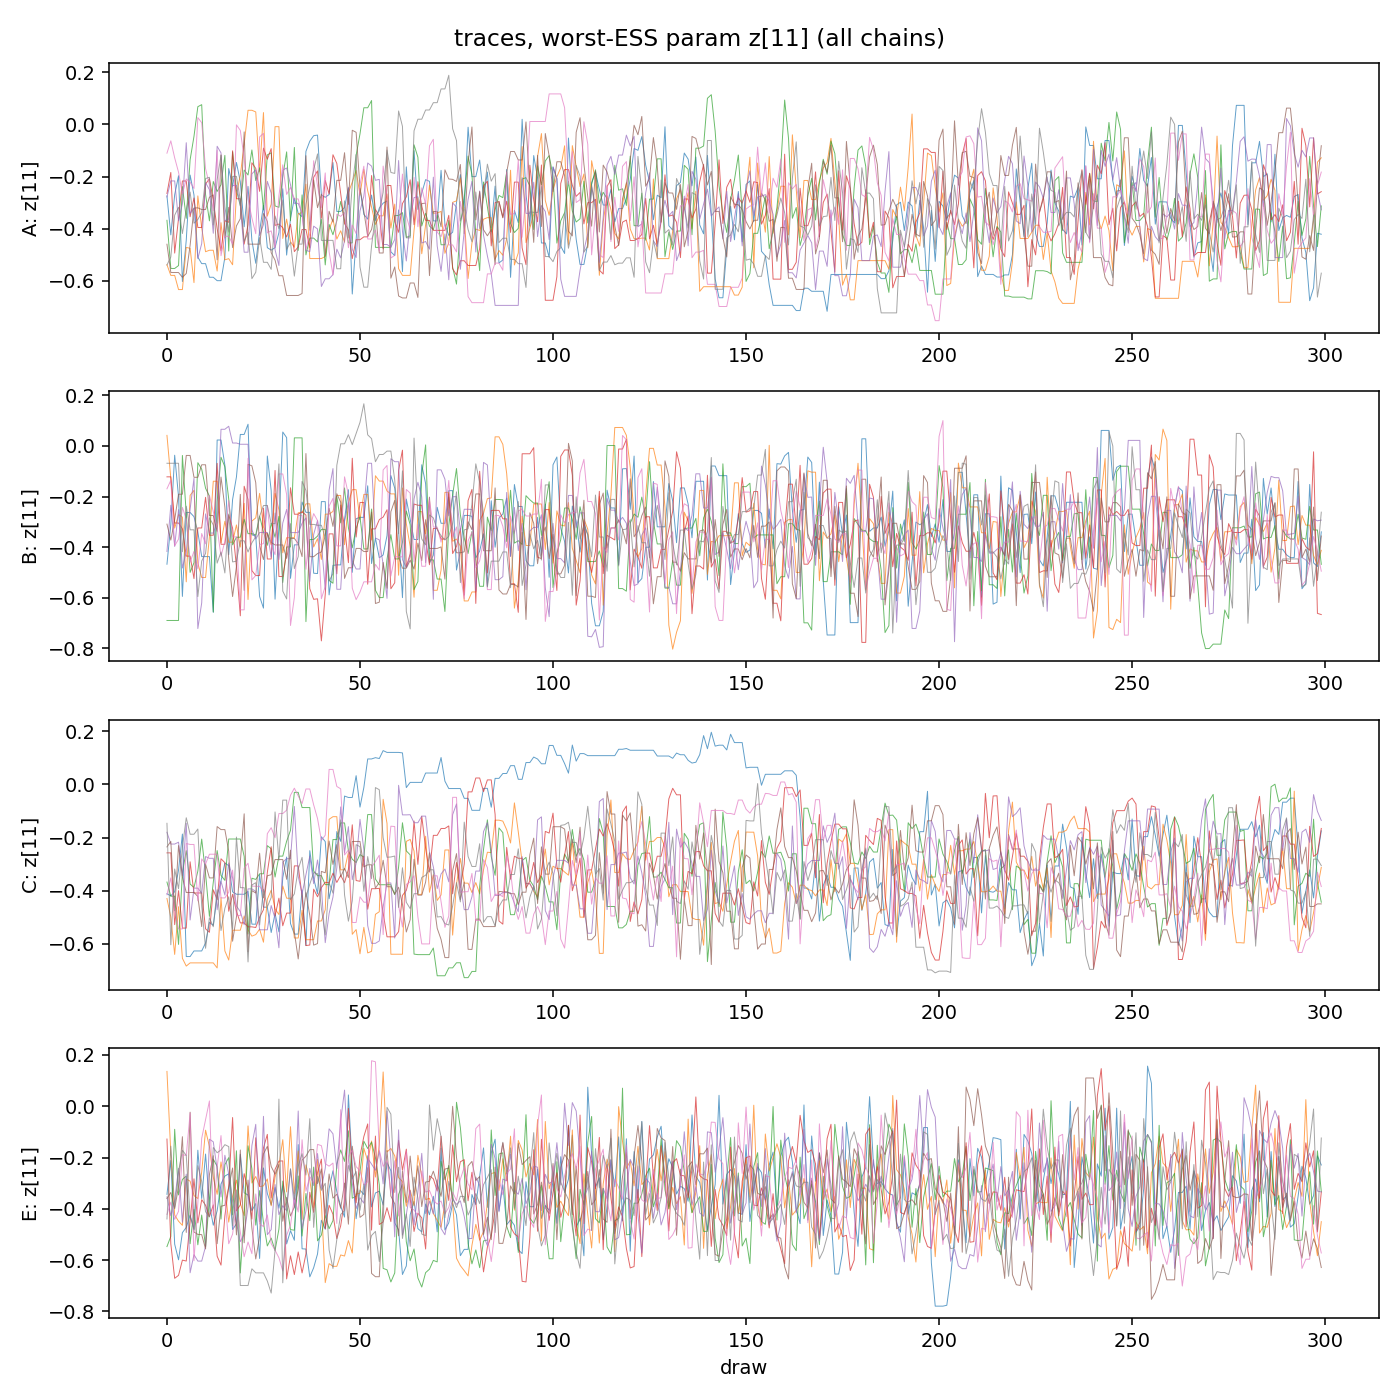
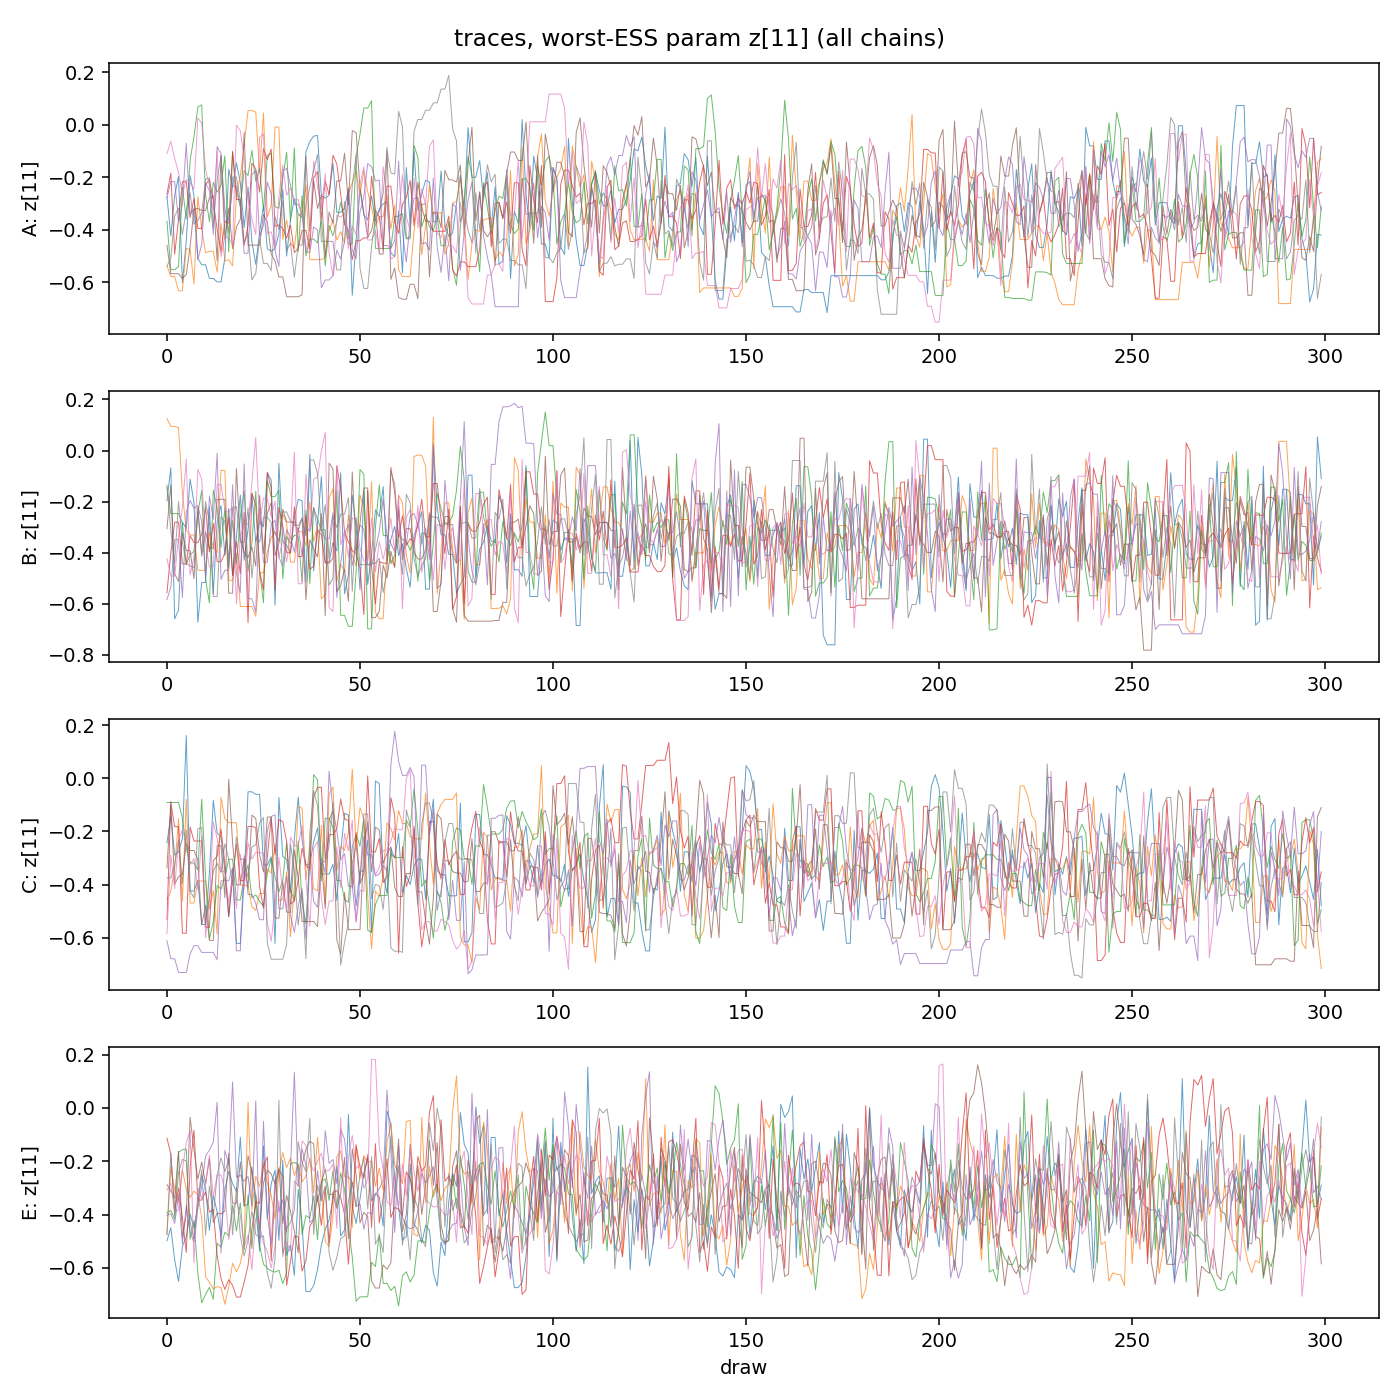
v4 results (clean sweep) + carousel GATE F: script, checkpoint, MAMS64 Phase-B deviation

diff --git a/experiments/flow_precond/carousel_gate_f.py b/experiments/flow_precond/carousel_gate_f.py
@@ -1,0 +1,207 @@
+#!/usr/bin/env python
+"""Carousel GATE F (plan §5.2): train one-shot flows on carousel-dPIE, gate them.
+
+Trains Phase-A-only and Phase-A+B one-shot flows (fixed range 6 + trainable
+DiagScale — the demo-validated v4 architecture, nothing data-derived) on the
+33-param carousel posterior, then evaluates the pre-registered gates:
+
+  GATE F(a)  ELBO: neg-ELBO tail (mean last 100) <= SVI final loss 291453.1
+             (family nesting; same sign convention as SVIStage, verified).
+  GATE F(b)  pocket coverage: log q_flow(zP) - log q_flow(zM) >= -8 nats
+             (zP/zM = basin medians from basin_slice.npz; true lp ratio ~ -3).
+             Pre-registered: A-only FAILS (mode-seeking drops the ~5% pocket
+             14 sigma from the SVI solution), A+B PASSES.
+  GATE F(c)  pullback-scale on MAIN-BASIN MAMS64 draws (pocket excluded via
+             z[:,6] > -22.35): per-dim sd in [0.5, 2], |mean| <= 1, for A+B
+             (gate) and A-only (recorded). Pocket-draw pullback stats reported
+             separately as a diagnostic (an A-only flow that drops the pocket
+             SHOULD place those draws far out -- that is F(b) seen from the
+             sample side, not a scale failure).
+  Diagnostics: max|T^-1(z)| over all draws (box check), per-phase loss
+             histories, learned exp(s) range.
+
+Phase-B data: the fresh 64-chain MAMS run (messy_tests/dpie/mams/arrays.npz,
+(64,1000,33)) -- DEVIATION from the plan's named mclmc file (8x10k), rationale:
+MAMS is MH-exact (pocket occupancy ~4.6% = true) while MCLMC over-weights the
+pocket ~3x (14.6%), which would distort forward-KL training toward the pocket.
+
+GPU only. Outputs to carousel_gate_f_out/ (flows cached with config keys).
+"""
+import os
+import json
+import sys
+import time
+
+sys.stdout.reconfigure(line_buffering=True)
+
+HERE = os.path.dirname(os.path.abspath(__file__))
+OUT_DIR = os.path.join(HERE, "carousel_gate_f_out")
+os.makedirs(OUT_DIR, exist_ok=True)
+
+import matplotlib
+matplotlib.use("Agg")
+from matplotlib import pyplot as plt
+
+import numpy as np
+import jax
+jax.config.update("jax_enable_x64", True)
+from jax import numpy as jnp
+
+sys.path.insert(0, HERE)
+import carousel_model
+from gigalens_research.inference import flows
+import demo_validation as dv  # reuse the demo-validated train_flow loop
+dv.OUT_DIR = OUT_DIR          # redirect its flow caches here
+
+SEED = 0
+SPLINE_CFG = dict(num_layers=6, num_bins=8, spline_range=6.0, hidden_dims=(64, 64),
+                  trainable_scale=True)
+PHASE_A_STEPS = 3000
+PHASE_A_DRAWS = 128
+PHASE_A_LR = 3e-3
+PHASE_B_STEPS = 1000
+PHASE_B_LR = 1e-4
+
+DPIE = os.path.join(HERE, "..", "sim_carousel", "messy_tests", "dpie")
+BASIN = "/pscratch/sd/l/linusu/carousel_diag/basin_slice/basin_slice.npz"
+SVI_FINAL_LOSS = 291453.1085118712  # svi manifest final_loss (verified 2026-07-08)
+POCKET_COL, POCKET_THR = 6, -22.35  # z[:,6] > -22.35 => pocket (verified col map)
+
+
+def main():
+    model_seq, prob_model = carousel_model.build()
+    dim = 33
+    names = prob_model.z_param_names
+    assert names[POCKET_COL] == "planes/0/mass/1/center_x", names[POCKET_COL]
+    lp_fn = lambda z: prob_model.log_prob(z)[0]
+
+    svi = np.load(os.path.join(DPIE, "svi", "arrays.npz"))
+    qz_loc, qz_scale_tril = svi["qz_loc"], svi["qz_scale_tril"]
+
+    mams = np.load(os.path.join(DPIE, "mams", "arrays.npz"))
+    z_mams = mams["samples_z"].reshape(-1, dim)
+    pocket_mask = z_mams[:, POCKET_COL] > POCKET_THR
+    print(f"MAMS64 draws: {z_mams.shape[0]}, pocket occupancy "
+          f"{pocket_mask.mean():.3%}")
+
+    basin = np.load(BASIN)
+    zP, zM = jnp.asarray(basin["zP"]), jnp.asarray(basin["zM"])
+
+    model_card = {
+        "script": os.path.abspath(__file__),
+        "jax": jax.__version__, "devices": [str(d) for d in jax.devices()],
+        "x64": bool(jax.config.jax_enable_x64), "dim": dim,
+        "spline": {**SPLINE_CFG, "phase_a": [PHASE_A_STEPS, PHASE_A_DRAWS, PHASE_A_LR],
+                   "phase_b": [PHASE_B_STEPS, PHASE_B_LR, "mams64"]},
+        "phase_b_data": dict(source="messy_tests/dpie/mams/arrays.npz",
+                             n=int(z_mams.shape[0]),
+                             pocket_occupancy=float(pocket_mask.mean())),
+        "seed": SEED,
+    }
+    print("MODEL CARD:", json.dumps(model_card, indent=2))
+
+    key = jax.random.key(SEED + 10)
+    sp_init, sp_make = flows.make_whitened_spline_flow(
+        key, dim, jnp.asarray(qz_loc), jnp.asarray(qz_scale_tril), **SPLINE_CFG)
+    sp_key = (f"car_r{int(SPLINE_CFG['spline_range'])}b{SPLINE_CFG['num_bins']}"
+              f"ts1lr{PHASE_A_LR:g}")
+
+    t0 = time.perf_counter()
+    params_a, hist_a = dv.train_flow(
+        f"A_{sp_key}", sp_init, sp_make, lp_fn, dim, n_draws=PHASE_A_DRAWS,
+        num_steps=PHASE_A_STEPS, lr=PHASE_A_LR, seed=SEED + 11)
+    t_a = time.perf_counter() - t0
+
+    t0 = time.perf_counter()
+    params_ab, hist_ab = dv.train_flow(
+        f"AB_{sp_key}", params_a, sp_make, lp_fn, dim, n_draws=PHASE_A_DRAWS,
+        num_steps=0, lr=PHASE_A_LR, seed=SEED + 12,
+        phase_b_samples=z_mams, phase_b_steps=PHASE_B_STEPS, phase_b_lr=PHASE_B_LR)
+    t_b = time.perf_counter() - t0
+
+    summary = {"model_card": model_card, "timings_s": dict(phase_a=t_a, phase_b=t_b),
+               "training": {
+                   "A": dict(steps=int(hist_a["a"].size),
+                             diverged=bool(hist_a.get("diverged"))),
+                   "B": dict(steps=int(hist_ab["b"].size)
+                             if hist_ab["b"] is not None else 0,
+                             diverged=bool(hist_ab.get("diverged"))),
+               }}
+
+    def log_q(make, params, z):
+        bij = make(params)
+        u = bij.inverse(z)
+        ildj = bij.inverse_log_det_jacobian(z, event_ndims=1)
+        return np.asarray(flows._std_normal_logprob(u) + ildj), np.asarray(u)
+
+    batched_lp = jax.vmap(lp_fn)
+
+    def direct_neg_elbo(params, n_batches=5):
+        """Fresh Monte-Carlo neg-ELBO of the FINAL flow (Phase B shifts it off the
+        Phase-A history, so each flow gets its own estimate; 5x128 draws)."""
+        vals = [float(flows.neg_elbo_loss(
+            params, sp_make, batched_lp, jax.random.key(1000 + i),
+            PHASE_A_DRAWS, dim)) for i in range(n_batches)]
+        return float(np.mean(vals)), float(np.std(vals))
+
+    results = {}
+    for tag, params, hist in (("A_only", params_a, hist_a),
+                              ("A_plus_B", params_ab, hist_ab)):
+        if hist.get("diverged"):
+            results[tag] = dict(status="TRAINING DIVERGED")
+            continue
+        # GATE F(a): direct neg-ELBO of this flow (mean +- sd over 5 batches)
+        tail, tail_sd = direct_neg_elbo(params)
+        # GATE F(b): pocket coverage
+        lq_pm, _ = log_q(sp_make, params, jnp.stack([zP, zM]))
+        pocket_ratio = float(lq_pm[0] - lq_pm[1])
+        # GATE F(c): pullback of main-basin draws (subsample for memory)
+        rng = np.random.default_rng(SEED)
+        main_idx = rng.choice(np.where(~pocket_mask)[0], size=4000, replace=False)
+        pocket_idx = np.where(pocket_mask)[0]
+        pocket_idx = rng.choice(pocket_idx, size=min(2000, pocket_idx.size),
+                                replace=False)
+        _, u_main = log_q(sp_make, params, jnp.asarray(z_mams[main_idx]))
+        _, u_pocket = log_q(sp_make, params, jnp.asarray(z_mams[pocket_idx]))
+        sd, mu = u_main.std(0), np.abs(u_main.mean(0))
+        bij = sp_make(params)
+        results[tag] = dict(
+            status="OK",
+            elbo_direct=tail, elbo_direct_sd=tail_sd,
+            elbo_gate_pass=bool(tail <= SVI_FINAL_LOSS),
+            pocket_log_ratio=pocket_ratio,
+            pocket_gate_pass=bool(pocket_ratio >= -8.0),
+            pullback_main_sd=[float(sd.min()), float(sd.max())],
+            pullback_main_maxabsmean=float(mu.max()),
+            pullback_scale_pass=bool((sd >= 0.5).all() and (sd <= 2.0).all()
+                                     and (mu <= 1.0).all()),
+            pullback_pocket_sd=[float(u_pocket.std(0).min()),
+                                float(u_pocket.std(0).max())],
+            pullback_pocket_maxabs=float(np.abs(u_pocket).max()),
+            max_abs_u_main=float(np.abs(u_main).max()),
+            exp_s_range=[float(np.exp(np.asarray(
+                params["log_scale"]).min())), float(np.exp(np.asarray(
+                    params["log_scale"]).max()))] if "log_scale" in params else None,
+        )
+        print(tag, json.dumps(results[tag], indent=2))
+
+    summary["gates"] = results
+
+    fig, ax = plt.subplots(figsize=(9, 5))
+    ax.plot(hist_a["a"], label="Phase A (neg-ELBO)")
+    if hist_ab["b"] is not None and len(hist_ab["b"]):
+        ax.plot(np.arange(len(hist_ab["b"])) + PHASE_A_STEPS, hist_ab["b"],
+                label="Phase B (fwd-KL)")
+    ax.axhline(SVI_FINAL_LOSS, color="r", ls="--", label="SVI final loss")
+    ax.set_xlabel("step"); ax.set_ylabel("loss"); ax.legend()
+    ax.set_yscale("symlog")
+    fig.tight_layout()
+    fig.savefig(os.path.join(OUT_DIR, "gate_f_losses.png"), dpi=140)
+
+    with open(os.path.join(OUT_DIR, "gate_f_summary.json"), "w") as f:
+        json.dump(summary, f, indent=2)
+    print("SUMMARY:", json.dumps(summary["gates"], indent=2, default=str))
+
+
+if __name__ == "__main__":
+    main()

diff --git a/docs/logs/carousel-mclmc-sampling.md b/docs/logs/carousel-mclmc-sampling.md
@@ -424,6 +424,47 @@ multimodality, conditioning, or the NFW profile.
 
 ## Design checkpoints (criteria awaiting approval)
 
+- **Run: carousel GATE F — one-shot flow training + pocket-coverage A/B** (plan §5.2/§4.4;
+  script `experiments/flow_precond/carousel_gate_f.py`, branch `flow-precond-mams`; model
+  via `carousel_model.py`, identity-verified to 0.01 nats against basin_slice records).
+  Trains Phase-A-only and Phase-A+B one-shot flows (demo-v4-validated architecture: range 6
+  / 8 bins / trainable DiagScale / lr 3e-3, 3000×128-draw reverse-KL; Phase B 1000-step
+  full-batch fkl) on the 33-param carousel-dPIE posterior.
+  **DEVIATION from plan §4.4 (pre-registered):** Phase-B data = the fresh 64-chain MAMS run
+  (`messy_tests/dpie/mams/arrays.npz`, 64×1000, MH-exact, pocket occupancy measured at load
+  time, ≈4.6% = truth) instead of the plan's named MCLMC file (8×10k, pocket over-weighted
+  ~3× at 14.6%) — forward-KL trains toward its data's weights, so MH-correct weights are
+  truer to the plan's intent.
+  **Cause hypothesis:** reverse-KL from the SVI start assigns the separate ~5% pocket mode
+  (14σ from the SVI solution) probability ≈ 0 (mode-dropping — the mechanism the demo could
+  not test, having no second mode); forward-KL on MH-exact samples restores it.
+  **Pre-registered predictions:** (F1) A-only FAILS the pocket gate: log q(zP) − log q(zM)
+  < −8 nats, plausibly ≪ −8 (SVI itself was 14σ ⇒ ratio ~ −100s; the flow starts there and
+  reverse-KL has no gradient signal to build density at an unvisited mode) — its failure is
+  a RESULT confirming §4.4, not a bug; (F2) A+B PASSES: ratio ≥ −8 (true value ≈ −3; Phase-B
+  data contains ~2.9k pocket draws); (F3) both flows pass the ELBO gate: direct 5×128-draw
+  neg-ELBO ≤ SVI final 291453.1 (family nesting; identity-init starts AT the SVI loss);
+  (F4) A+B passes the pullback-scale gate on MAIN-BASIN draws (sd ∈ [0.5,2], |mean| ≤ 1;
+  band derivation as in the demo checkpoint); pocket-draw pullback reported separately as a
+  diagnostic (A-only SHOULD place pocket draws far out — that is F1 seen from the sample
+  side). **Falsifiers + pre-committed responses:** F1 wrong (A-only covers the pocket) ⇒
+  surprising positive about reverse-KL here; investigate how (lp evaluations at 128 draws/
+  step CAN see the pocket if draws land there) before any claim; F2 wrong (A+B fails) ⇒ ONE
+  retry with subsampling/early-stopping (the v4-flagged overfit levers), then if still
+  failing: pre-registered NEGATIVE finding "Phase B as designed cannot restore the pocket"
+  ⇒ escalate to the human before any benchmark (the plan's §5.4 pocket-occupancy win
+  condition would be unreachable); F3 wrong ⇒ apply the pre-registered lr fallback (ONE
+  retrain at 1e-3); F4 wrong while F2 passes ⇒ scale layer insufficient at 33 dims ⇒
+  diagnose (s travel ~ measured mismatch) before benchmark. **Blind spots:** (a) gates
+  evaluate the FLOW, not sampling — no MAMS run here; mixing/occupancy claims wait for the
+  benchmark; (b) zP/zM are 2 points — the pocket gate tests coverage at the medians, not
+  pocket shape; (c) pullback-scale uses MAMS64 draws — fresh but finite (ESS unknown at
+  gate time; band has 3.5× slack). **Cost:** ≤ 60 GPU-min, one allocation (Phase A ≈ 3000
+  steps × 128 two-band 300² lstsq renders; Phase B render-free; gate evals ≈ 15 renders'
+  worth). Per the user-approved plan (2026-07-08, "Go ahead with this updated plan"), GATE F
+  is grader-approved; the §5.4 benchmark checkpoint goes to the human.
+  **Status: awaiting rigor-grader approval.**
+
 - **Run: demo 4-arm flow-preconditioning validation** (plan §5.2/§5.3 dry run before any
   carousel work; script `experiments/flow_precond/demo_validation.py`, branch
   `flow-precond-mams`). Demo lens (22 params, easiest system), identical 8-chain budgets:
@@ -673,6 +714,24 @@ Before a consequential run, the producer logs a checkpoint here and stops for gr
 ---
 
 ## Log (newest first)
+
+- **2026-07-08 (demo validation v4 RAN — one-shot config CLEAN SWEEP)**
+  `proposed (UNCERTIFIED)`. Observed vs predicted, all pre-registered: **(10) PASS** —
+  pullback-scale gate passes for BOTH one-shot flows (A-only sd [0.99, 1.14], A+B
+  [1.02, 1.13]; |mean|max 0.19/0.06) at FIXED range 6 + trainable DiagScale — nothing
+  data-derived. **(11) PASS, unconfounded** — arm B′ R̂ 1.003, worst mean dev 1.48σ, sd
+  ratios in gate, min bulk-ESS 1151 (vs vanilla 412); flow gate −76.75 ≤ −70.98 (best flow
+  of any config). **(12) health-fail branch NOT triggered** — arm C′ (Phase B) PASSED
+  health (R̂ 1.015, ESS 575) + agreement + the B-vs-C width gate (0/22 fail; v3's fail was
+  annotated non-interpretable) — Phase B did NOT degrade the one-shot flow (unlike v3's
+  range-35 flow; C′ still 4× arm B′'s wall: 339 s vs 85 s). Carousel Phase B therefore
+  proceeds as planned (full-batch fkl), per the pre-commitment. (6) arm D diverged
+  (expected, recorded); arm E repeat pass with divergence gate FAILED again (7/2400 —
+  flag persists, third occurrence). Phase-B gate PASS (−82.9→−86.6, finite decreasing).
+  **Demo validation phase COMPLETE**: flow-MAMS and whitened-NeuTra-NUTS both validated at
+  demo scale on the one-shot architecture; faithful NeuTra divergence + mechanism archived.
+  Cumulative demo-phase cost ≈ 2.7 GPU-h. Artifacts: demo_validation_out/* (cache keys
+  r6b8ts1lr0.003).
 
 - **2026-07-08 (demo validation v3 RAN — flow-MAMS VALIDATED on demo; 2 predictions failed,
   both informative)** `proposed (UNCERTIFIED)`. Observed vs predicted, per pre-registered gate:
